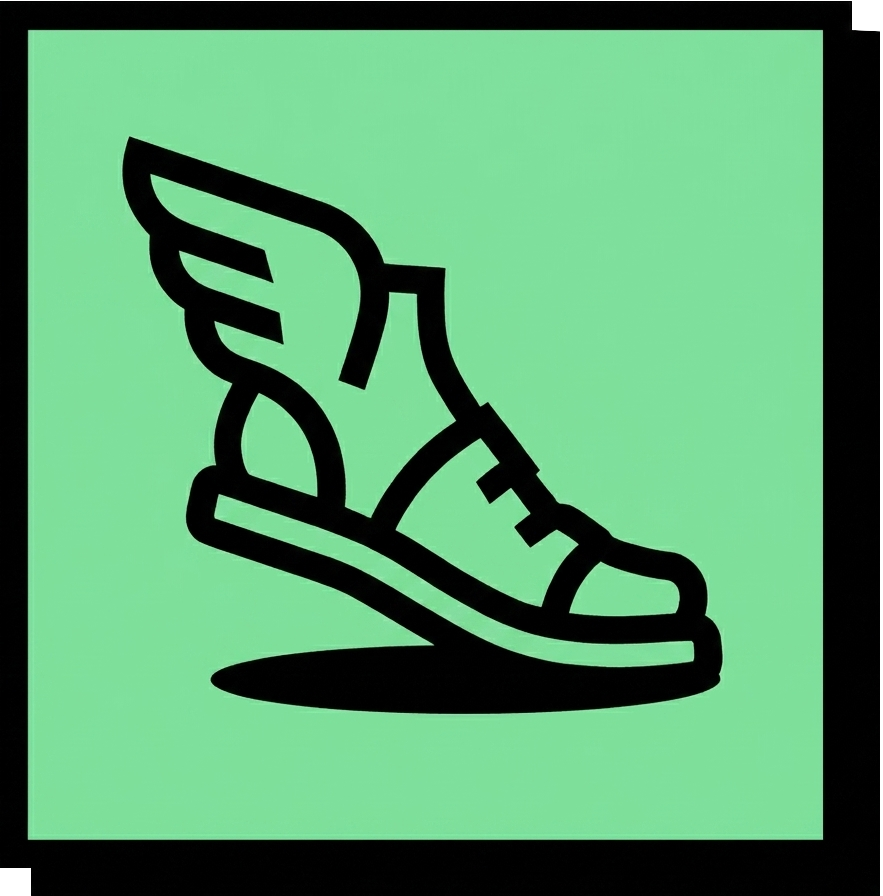
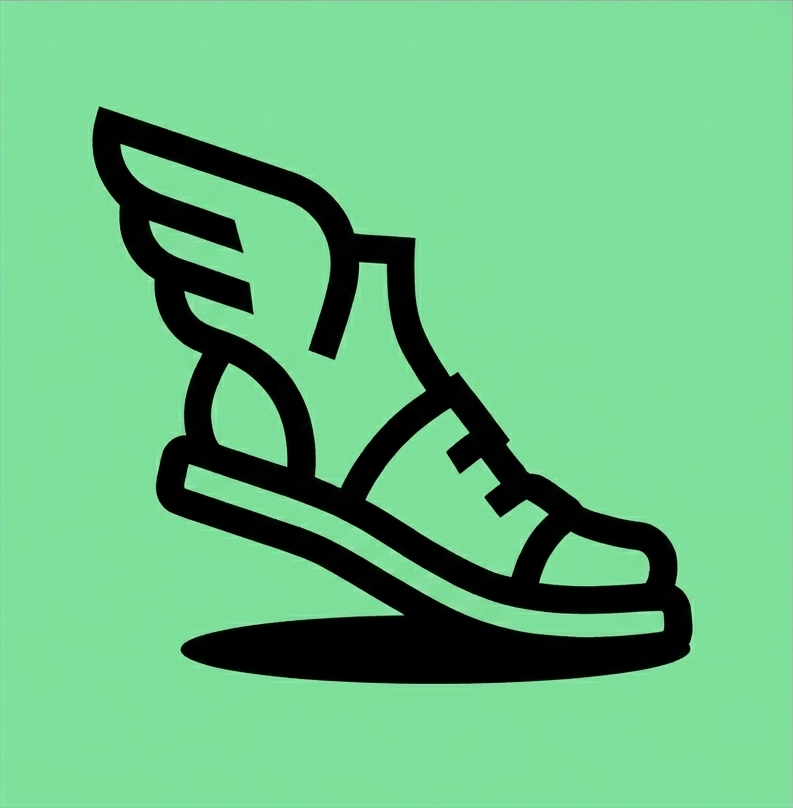
feat: update branding assets and redesign loading screen with custom spinner and typography

diff --git a/src/App.tsx b/src/App.tsx
@@ -80,14 +80,36 @@ export const App = () => {
       <div
         style={{
           display: "flex",
+          flexDirection: "column",
           height: "100vh",
           width: "100vw",
           alignItems: "center",
           justifyContent: "center",
-          backgroundColor: "var(--bg-base)",
+          backgroundColor: "#1C1C1C",
+          color: "#FFFFFF",
+          fontFamily: "'Space Grotesk', sans-serif",
         }}
       >
-        <div style={{ color: "var(--text-muted)" }}>
+        <div
+          style={{
+            width: 48,
+            height: 48,
+            border: "4px solid #000000",
+            borderTopColor: "#5EE79D",
+            backgroundColor: "#FFFFFF",
+            boxShadow: "4px 4px 0 #000000",
+            animation: "spin 1s linear infinite",
+            marginBottom: 24,
+          }}
+        ></div>
+        <div
+          style={{
+            fontWeight: 700,
+            fontSize: "18px",
+            letterSpacing: "-0.5px",
+            textTransform: "uppercase",
+          }}
+        >
           Carregando seu estagiário inteligente...
         </div>
       </div>